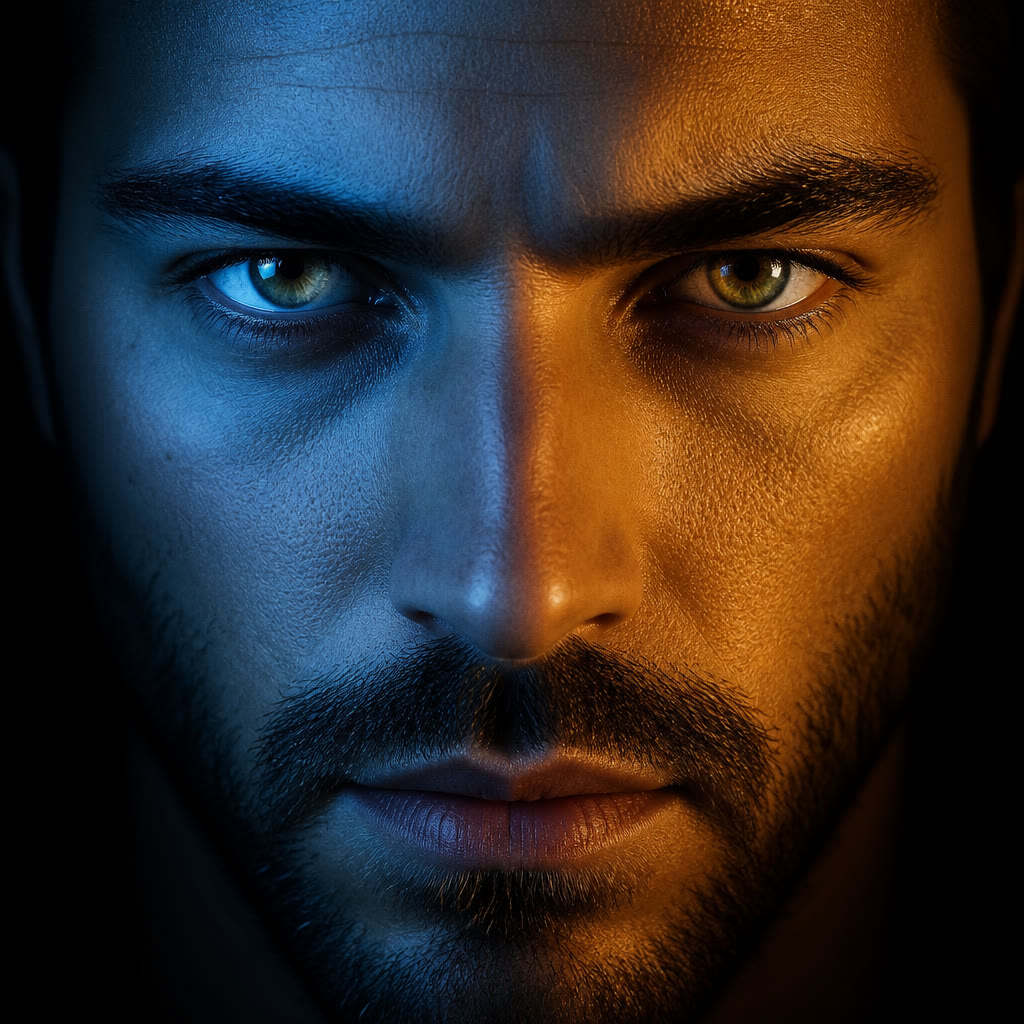
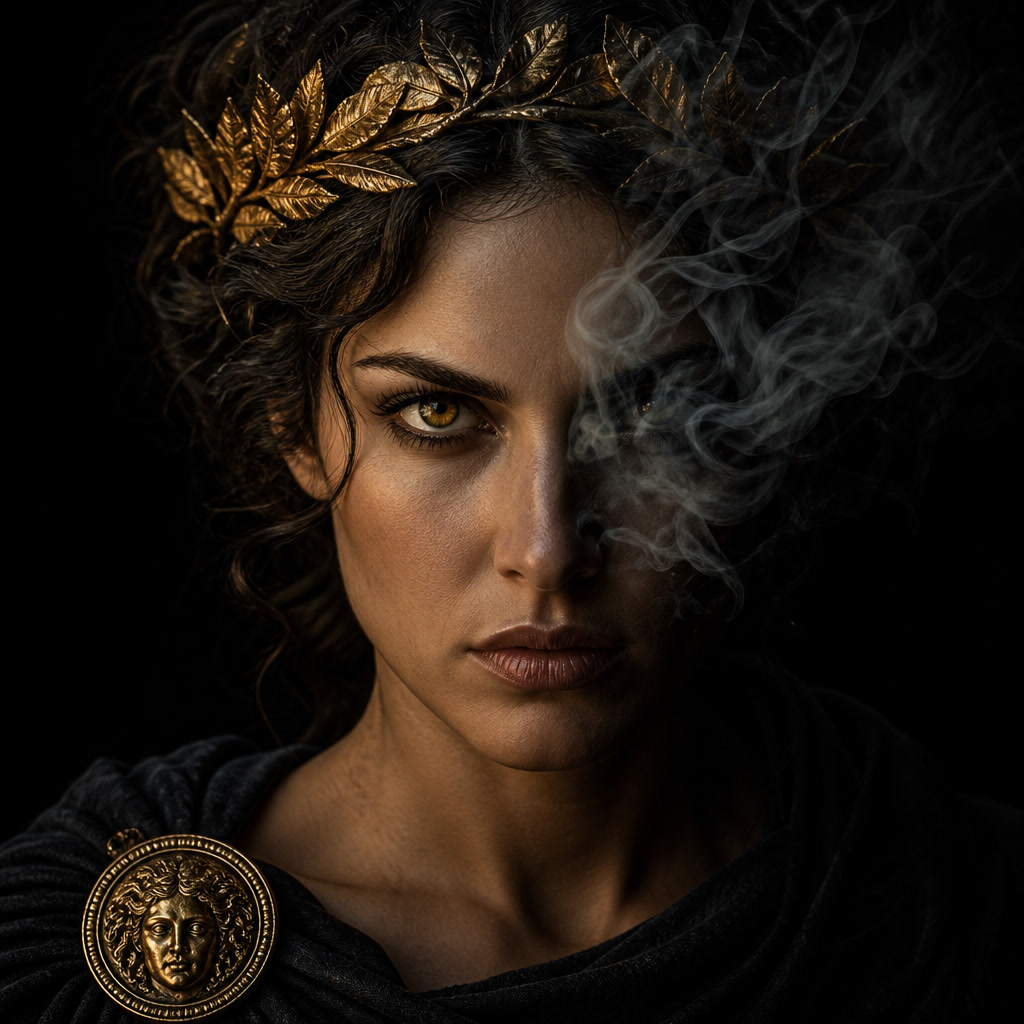
Swap Oracle WAIT to the signed laurel close-up.
Replace /oracle-wait.jpg (old split-light man) with the woman / gold laurel / amber eye / smoke still. Floor and HUD keep that route. /oracle-room.jpg stays the table back. Bump the shared leader hash query so phones drop the old face. WIRE on this PR mentions the swap.

diff --git a/frontend/static/index.html b/frontend/static/index.html
@@ -17,8 +17,8 @@
   <link rel="shortcut icon" href="/favicon.ico" />
   <link rel="stylesheet" href="/style.css" />
   <link rel="preload" as="image" href="/login-council.jpg" />
-  <link rel="preload" as="image" href="/static/bots/raijin-chair.png?v=7b598672c9" />
-  <link rel="preload" as="image" href="/static/ares-wait.png?v=7b598672c9" />
+  <link rel="preload" as="image" href="/static/bots/raijin-chair.png?v=79e1722716" />
+  <link rel="preload" as="image" href="/static/ares-wait.png?v=79e1722716" />
   <link rel="preload" as="image" href="/static/bots/line.png" />
   <link rel="preload" as="image" href="/static/bots/steam.png" />
   <link rel="preload" as="image" href="/static/bots/fade.png" />
@@ -359,19 +359,19 @@
         </div>
         <div id="oraWatch" class="ora-watch" hidden aria-live="polite">CRT · WATCH · STATIC ON THE GLASS</div>
         <div id="aresFace" class="ares-face" data-eye="wait" hidden aria-hidden="true">
-          <img id="aresChairImg" src="/static/ares-wait.png?v=7b598672c9" alt="Ares">
+          <img id="aresChairImg" src="/static/ares-wait.png?v=79e1722716" alt="Ares">
           <span class="ares-eye ares-eye-l" aria-hidden="true"></span>
           <span class="ares-eye ares-eye-r" aria-hidden="true"></span>
           <span class="ares-rim" aria-hidden="true"></span>
         </div>
         <div id="raijinFace" class="raijin-face" data-eye="wait" hidden aria-hidden="true">
-          <img id="raijinChairOverlay" src="/static/bots/raijin-chair.png?v=7b598672c9" alt="">
+          <img id="raijinChairOverlay" src="/static/bots/raijin-chair.png?v=79e1722716" alt="">
           <span class="raijin-eye raijin-eye-l" aria-hidden="true"></span>
           <span class="raijin-eye raijin-eye-r" aria-hidden="true"></span>
         </div>
         <button type="button" id="phoneScore" class="phone-score" hidden aria-label="Flip BTC / ETH">BTC 0–0</button>
         <button type="button" id="floorRaijin" class="floor-raijin" title="THE FRONT · Raijin · Dallas DFW" aria-label="Open THE FRONT">
-          <img src="/static/bots/raijin-chair.png?v=7b598672c9" alt="" width="44" height="44">
+          <img src="/static/bots/raijin-chair.png?v=79e1722716" alt="" width="44" height="44">
           <span>RAIJIN</span>
         </button>
       </div>
@@ -843,7 +843,7 @@
         <div id="frontStageWrap" class="front-stage-wrap" data-wx="">
           <canvas id="frontWx" width="920" height="620" aria-label="Raijin Floor"></canvas>
           <div class="front-chair" id="frontChair">
-            <span class="front-mark"><img id="frontChairImg" src="/static/bots/raijin-chair.png?v=7b598672c9" alt="Raijin" onerror="window.frontMarkFail&&frontMarkFail(this)"></span>
+            <span class="front-mark"><img id="frontChairImg" src="/static/bots/raijin-chair.png?v=79e1722716" alt="Raijin" onerror="window.frontMarkFail&&frontMarkFail(this)"></span>
             <span class="front-name">RAIJIN</span>
             <span class="front-call" id="frontChairCall">—</span>
           </div>

diff --git a/frontend/static/wire.js b/frontend/static/wire.js
@@ -5,7 +5,7 @@ window.COUNCIL_WIRE = [
     "id": "2026-08-16-eth-slate-ares-oracle-lock",
     "at": "2026-08-16T23:59:55-05:00",
     "title": "ETH slate wipe + Ares/Oracle lock the best of three",
-    "why": "Zach Voice: Dedicated BTC/ETH Pattern Specialists shipped on #47. Displayed ETH chair scorecard / 0–5 / eth_shadow / settled ETH chair stats wipe so Vitalik starts clean. BTC 5–3 stays. Bot memory (weights, adaptive, learning) is not touched. Same PR: Hunter still feeds 1–3 on Ares (sports) and Oracle (politics). The chair reviews all three on odds + leftover at the real ask, paper-locks the winner, drops the other two, and starts the timer. Show the bet – No Consensus can still appear while reviewing. If the three expire, Hunter surfaces new ones. Dead air is failure. Hunter does not pick the side. Not new Floor chairs. Satoshi/Vitalik stay BTC/ETH lockers. Ares/Oracle stay sports/politics lockers. candle_btc BTC only, candle_eth ETH only. Hits first. 20–80 after vig. Dead-book skip. Sit if EV under +3¢. Ares key-number / Eagles ranking still apply. Paper. Follower OFF. Live OFF."
+    "why": "Zach Voice: Dedicated BTC/ETH Pattern Specialists shipped on #47. Displayed ETH chair scorecard / 0–5 / eth_shadow / settled ETH chair stats wipe so Vitalik starts clean. BTC 5–3 stays. Bot memory (weights, adaptive, learning) is not touched. Same PR: Hunter still feeds 1–3 on Ares (sports) and Oracle (politics). The chair reviews all three on odds + leftover at the real ask, paper-locks the winner, drops the other two, and starts the timer. Show the bet – No Consensus can still appear while reviewing. If the three expire, Hunter surfaces new ones. Dead air is failure. Hunter does not pick the side. Same PR: Oracle WAIT / Floor / HUD swap to the signed laurel close-up at /oracle-wait.jpg (woman, gold laurel, amber eye, smoke over the other eye, black back). Not the old split-light man. /oracle-room.jpg stays the table back. One face. Labels carry WAIT/UP/DOWN. Cache-bust max-age=60 + hash query. No glowing-eye canvas swaps. Not new Floor chairs. Satoshi/Vitalik stay BTC/ETH lockers. Ares/Oracle stay sports/politics lockers. candle_btc BTC only, candle_eth ETH only. Hits first. 20–80 after vig. Dead-book skip. Sit if EV under +3¢. Ares key-number / Eagles ranking still apply. Paper. Follower OFF. Live OFF."
   },
   {
     "id": "2026-08-16-pattern-specialists",

diff --git a/frontend/static/roundtable.js b/frontend/static/roundtable.js
@@ -340,11 +340,12 @@ if (window.applySettingsSnapshot && !window.applySettingsSnapshot._real) {
   // ONE FACE PER CHAIR. Labels carry UP/DOWN/WAIT/LOCK. Faces stay on the WAIT cut.
   // Satoshi /chair-wait.jpg · Vitalik /vitalik-wait.jpg · Raijin cowboy
   // /static/bots/raijin-chair.png (Zach Voice — matches home-screen cowboys;
-  // not the #45 /raijin-wait.jpg rain close-up). Ares /static/ares-wait.png · Oracle /oracle-wait.jpg.
-  // Room plates stay backs. Dallas storm is the Raijin table back, not the face.
+  // not the #45 /raijin-wait.jpg rain close-up). Ares /static/ares-wait.png · Oracle /oracle-wait.jpg
+  // (laurel close-up — not the old split-light man). Room plates stay backs.
+  // Dallas storm is the Raijin table back, not the face.
   // Leader stills are cache-busted: live files were max-age=86400, so phones
   // kept the pre-#44 helmet/glow. Hash query + short max-age on the route.
-  const LEADER_JPG_V = "7b598672c9";
+  const LEADER_JPG_V = "79e1722716";
   let chairImgsReady = 0;
   function _chairLoaded() {
     chairImgsReady += 1;

diff --git a/backend/tests/test_oracle_laurel_still.py b/backend/tests/test_oracle_laurel_still.py
@@ -1,0 +1,128 @@
+"""Oracle WAIT / Floor / HUD use the signed laurel close-up. Room plate stays back."""
+from __future__ import annotations
+
+import hashlib
+import struct
+import unittest
+from pathlib import Path
+
+from starlette.testclient import TestClient
+
+from backend.main import LEADER_JPG_CACHE, app
+
+ROOT = Path(__file__).resolve().parents[2]
+STATIC = ROOT / "frontend" / "static"
+JS = (STATIC / "roundtable.js").read_text(encoding="utf-8")
+CSS = (STATIC / "style.css").read_text(encoding="utf-8")
+HTML = (STATIC / "index.html").read_text(encoding="utf-8")
+WIRE = (STATIC / "wire.js").read_text(encoding="utf-8")
+MAIN = (ROOT / "backend" / "main.py").read_text(encoding="utf-8")
+ORA = (ROOT / "backend" / "services" / "desk_oracle.py").read_text(encoding="utf-8")
+
+FACE = STATIC / "oracle-wait.jpg"
+ROOM = STATIC / "oracle-room.jpg"
[1 lines of base64/hex data omitted]
+
+
+def _leader_hash() -> str:
+    h = hashlib.sha256()
+    for name in ("chair-wait.jpg", "vitalik-wait.jpg", "oracle-wait.jpg", "ares-wait.png"):
+        h.update((STATIC / name).read_bytes())
+    return h.hexdigest()[:10]
+
+
+def _jpeg_size(data: bytes) -> tuple[int, int]:
+    i = 2
+    while i < len(data) - 8:
+        if data[i] != 0xFF:
+            i += 1
+            continue
+        marker = data[i + 1]
+        if marker in (0xC0, 0xC1, 0xC2):
+            h, w = struct.unpack(">HH", data[i + 5 : i + 9])
+            return int(w), int(h)
+        if marker in (0xD8, 0xD9) or (0xD0 <= marker <= 0xD7):
+            i += 2
+            continue
+        if i + 3 >= len(data):
+            break
+        seglen = struct.unpack(">H", data[i + 2 : i + 4])[0]
+        i += 2 + seglen
+    raise AssertionError("JPEG SOF not found")
+
+
+class OracleLaurelStillTests(unittest.TestCase):
+    def test_wait_file_is_new_laurel_jpeg_not_old_man(self):
+        self.assertTrue(FACE.is_file())
+        data = FACE.read_bytes()
+        self.assertTrue(data.startswith(b"\xff\xd8"))
+        self.assertGreater(len(data), 20000)
+        self.assertNotEqual(hashlib.sha256(data).hexdigest(), OLD_SPLIT_LIGHT)
+        self.assertEqual(_jpeg_size(data), (1024, 1024))
+        self.assertNotEqual(data, ROOM.read_bytes())
+        self.assertTrue(ROOM.is_file())
+        self.assertTrue(ROOM.read_bytes().startswith(b"\xff\xd8"))
+
+    def test_floor_hud_load_one_wait_face(self):
+        self.assertIn('oraclePortrait.src = "/oracle-wait.jpg" + "?v=" + LEADER_JPG_V', JS)
+        self.assertIn('"mark": "/oracle-wait.jpg"', ORA)
+        self.assertIn('"portrait": "/oracle-wait.jpg"', ORA)
+        self.assertIn('const LEADER_JPG_V = "%s"' % _leader_hash(), JS)
+        pick = JS.split("function chairPortraitOf", 1)[1][:400]
+        self.assertIn("return oraclePortrait", pick)
+        self.assertNotIn("oracle-up", JS.split("function chairPortraitOf", 1)[1][:400])
+        self.assertNotIn("oracle-down", JS.split("function chairPortraitOf", 1)[1][:400])
+        self.assertIn("ONE FACE PER CHAIR", JS)
+        self.assertIn("Labels carry UP/DOWN/WAIT/LOCK", JS)
+        self.assertNotIn("oracle-up.jpg", JS)
+        self.assertNotIn("oracle-down.jpg", JS)
+
+    def test_room_plate_stays_table_back(self):
+        self.assertIn('url("/oracle-room.jpg")', CSS)
+        self.assertIn('data-chair-room="oracle"', CSS)
+        self.assertNotIn("oracle-room.jpg", JS.split("oraclePortrait.src", 1)[1][:400])
+        self.assertIn('@app.get("/oracle-wait.jpg")', MAIN)
+        self.assertIn('@app.get("/oracle-room.jpg")', MAIN)
+        wait_route = MAIN.split('@app.get("/oracle-wait.jpg")', 1)[1].split("@app.get", 1)[0]
+        room_route = MAIN.split('@app.get("/oracle-room.jpg")', 1)[1].split("@app.get", 1)[0]
+        self.assertIn("headers=LEADER_JPG_CACHE", wait_route)
+        self.assertIn("headers=ROOM_JPG_CACHE", room_route)
+        self.assertNotIn("86400", wait_route)
+
+    def test_no_glowing_eye_canvas_swap(self):
+        self.assertNotIn("function drawOracleEyeTint", JS)
+        self.assertNotIn("function paintOracleEyes", JS)
+        hud = JS.split("function drawOracleCrtHud", 1)[1].split("function chairWindowClock", 1)[0]
+        self.assertNotIn("fill(", hud)
+        self.assertNotIn("drawImage", hud)
+
+    def test_route_serves_new_face_with_short_cache(self):
+        client = TestClient(app, raise_server_exceptions=True)
+        resp = client.get("/oracle-wait.jpg")
+        self.assertEqual(resp.status_code, 200)
+        self.assertEqual(resp.headers.get("cache-control"), LEADER_JPG_CACHE["Cache-Control"])
+        self.assertTrue(resp.content.startswith(b"\xff\xd8"))
+        self.assertEqual(hashlib.sha256(resp.content).hexdigest(), hashlib.sha256(FACE.read_bytes()).hexdigest())
+        self.assertNotEqual(hashlib.sha256(resp.content).hexdigest(), OLD_SPLIT_LIGHT)
+        room = client.get("/oracle-room.jpg")
+        self.assertEqual(room.status_code, 200)
+        self.assertNotEqual(room.content, resp.content)
+
+    def test_wire_mentions_face_swap(self):
+        note = WIRE.split("2026-08-16-eth-slate-ares-oracle-lock", 1)[1].split(
+            "2026-08-16-pattern-specialists", 1
+        )[0]
+        self.assertIn("/oracle-wait.jpg", note)
+        self.assertIn("laurel", note)
+        self.assertIn("split-light man", note)
+        self.assertIn("/oracle-room.jpg stays the table back", note)
+        self.assertIn("No glowing-eye canvas swaps", note)
+        self.assertIn("WAIT/UP/DOWN", note)
+        self.assertIn("max-age=60", note)
+        self.assertNotIn("ZT", note)
+        self.assertIn("Satoshi’s Council", HTML)
+        self.assertIn('src="/council-mark.png"', HTML)
+
+
+if __name__ == "__main__":
+    unittest.main()

diff --git a/backend/tests/test_desk_wire.py b/backend/tests/test_desk_wire.py
@@ -79,6 +79,11 @@ class WireLogTests(unittest.TestCase):
         self.assertIn("Bot memory", rows[0]["why"])
         self.assertIn("paper-locks the winner", rows[0]["why"])
         self.assertIn("Hunter still feeds 1–3", rows[0]["why"])
+        self.assertIn("/oracle-wait.jpg", rows[0]["why"])
+        self.assertIn("laurel", rows[0]["why"])
+        self.assertIn("split-light man", rows[0]["why"])
+        self.assertIn("/oracle-room.jpg stays the table back", rows[0]["why"])
+        self.assertIn("No glowing-eye canvas swaps", rows[0]["why"])
         self.assertIn("Not new Floor chairs", rows[0]["why"])
         self.assertIn("Paper", rows[0]["why"])
         self.assertIn("Follower OFF", rows[0]["why"])
@@ -224,6 +229,8 @@ class WireLogTests(unittest.TestCase):
         self.assertIn("ETH slate wipe + Ares/Oracle lock the best of three", blob)
         self.assertIn("BTC 5–3 stays", blob)
         self.assertIn("paper-locks the winner", blob)
+        self.assertIn("signed laurel close-up", blob)
+        self.assertIn("Not the old split-light man", blob)
         self.assertIn("2026-08-16-pattern-specialists", blob)
         self.assertIn("BTC and ETH each get a dedicated pattern specialist", blob)
         self.assertIn("2026-08-16-raijin-cowboy-restore", blob)

diff --git a/backend/tests/test_vitalik_rain_still.py b/backend/tests/test_vitalik_rain_still.py
@@ -20,7 +20,17 @@ WAIT = STATIC / "vitalik-wait.jpg"
 CITY = STATIC / "vitalik-city.jpg"
 RAIJIN = STATIC / "raijin-wait.jpg"
 DALLAS = STATIC / "raijin-dallas.jpg"
-LEADER_HASH = hashlib.sha256(WAIT.read_bytes()).hexdigest()[:10]
+ORA_WAIT = STATIC / "oracle-wait.jpg"
+
+
+def _leader_hash() -> str:
+    h = hashlib.sha256()
+    for name in ("chair-wait.jpg", "vitalik-wait.jpg", "oracle-wait.jpg", "ares-wait.png"):
+        h.update((STATIC / name).read_bytes())
+    return h.hexdigest()[:10]
+
+
+LEADER_HASH = _leader_hash()
 
 
 class VitalikRainStillTests(unittest.TestCase):

diff --git a/backend/tests/test_eth_display_reset.py b/backend/tests/test_eth_display_reset.py
@@ -70,6 +70,9 @@ class EthDisplayResetContractTests(unittest.TestCase):
         self.assertIn("BTC 5–3 stays", note)
         self.assertIn("eth_shadow", note)
         self.assertIn("Bot memory", note)
+        self.assertIn("/oracle-wait.jpg", note)
+        self.assertIn("laurel", note)
+        self.assertIn("split-light man", note)
         self.assertNotIn("ZT", note)
 
 
